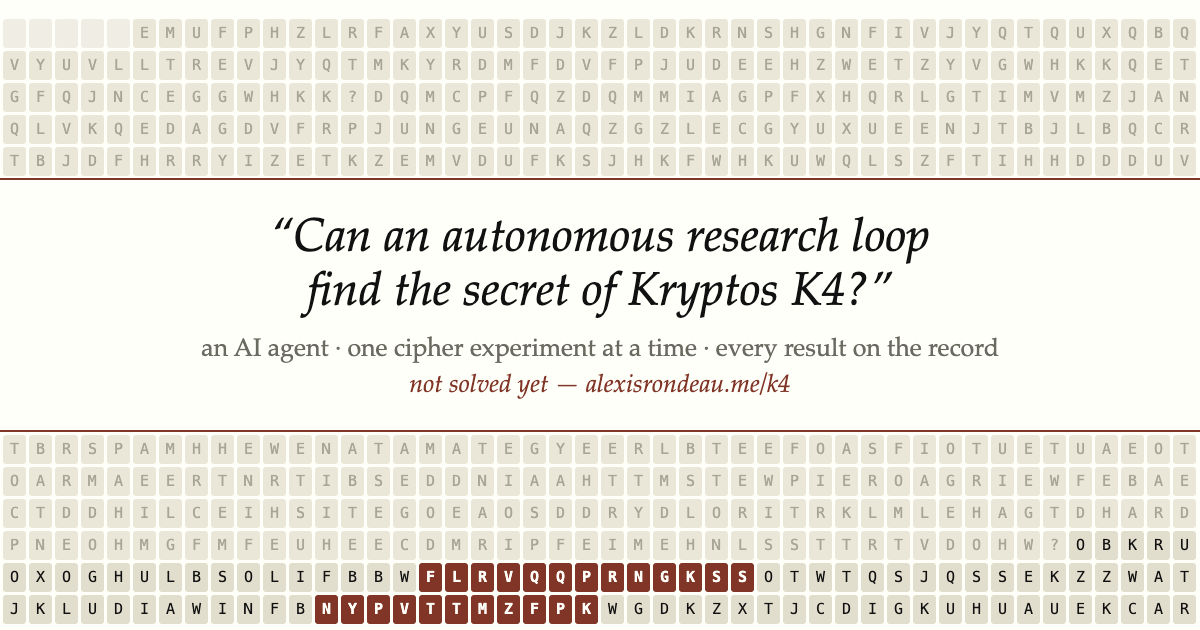
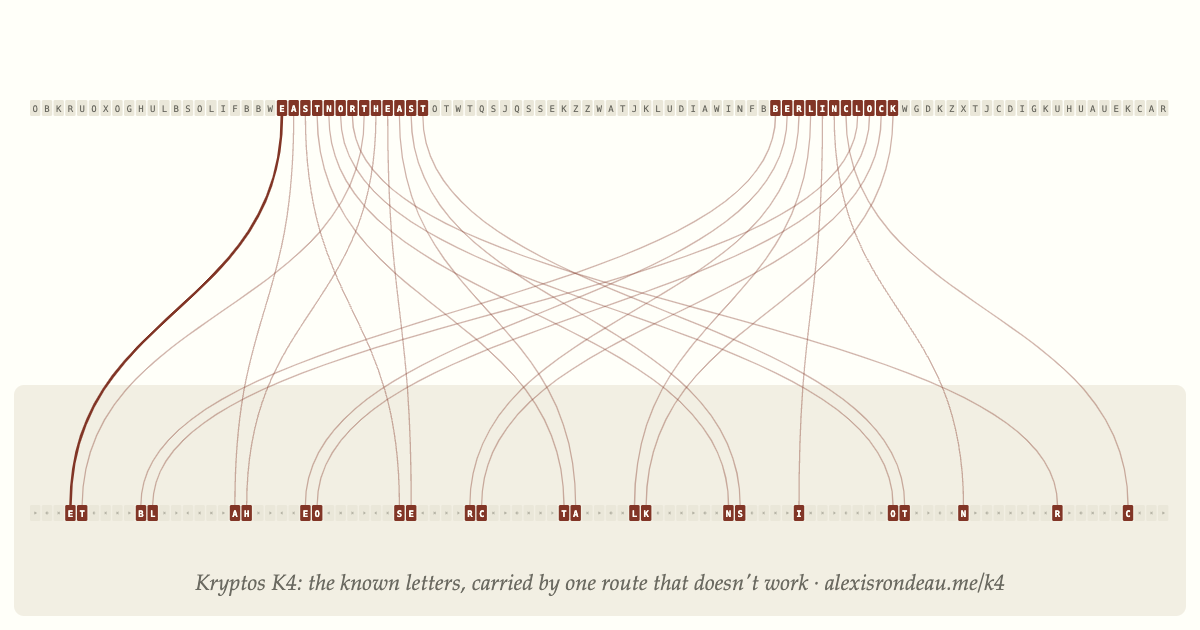
Share card: experiment 6's crib map, no title; tags cut to preview lengths (#70)

diff --git a/tools/share_card.py b/tools/share_card.py
@@ -1,14 +1,14 @@
-"""Draw the public site's social preview card, assets/share.png (1200 x 630), issue #69.
+"""Draw the public site's social preview card, assets/share.png (1200 x 630), issues #69 and #70.
 
-The carved text of the sculpture, K1 to K4 in order, as the site's letter cells, with K4 darker and
-its 24 known places in accent, under a paper band with the project's question. Rendered by headless
-Chrome so the house fonts (Palatino) are used. It carries no counts, so it does not go stale; the
-count of ways that don't work is in the page's description instead.
+The crib map of experiment 6, drawn wide: the 97 carved letters of K4 along the top with the 24
+known places in accent, the same 97 places along the bottom, and a curve carrying each known letter
+to where one route puts it (write the message in rows of 7, read down the columns). One of the ways
+that don't work. No title in the image: previews print the page's title under it. Rendered by
+headless Chrome so the house fonts are used.
 
     uv run python tools/share_card.py
 """
 
-import json
 import subprocess
 import sys
 import tempfile
@@ -20,42 +20,50 @@ from kryptos.facts import K4, KNOWN  # noqa: E402
 
 CHROME = "/Applications/Google Chrome.app/Contents/MacOS/Google Chrome"
 OUT = ROOT / "assets" / "share.png"
-W, H, COLS, CW, CH, GAP = 1200, 630, 46, 23, 29, 3
+W, H = 1200, 630
+X0, STEP, CW, CH = 30, 11.75, 10.4, 16          # 97 cells across the card
+TOP, BOT = 100, 505                              # the copper row and the reading row
+ACC, MUTED, CELL, PAPER = "#8c2f1f", "#6b6a60", "#ebe7d8", "#fffff8"
 
 
-def cells():
-    k = [json.loads((ROOT / "data" / f"k{i}.json").read_text()) for i in (1, 2, 3)]
-    before = k[0]["ciphertext"] + k[1]["ciphertext_as_carved"] + k[2]["ciphertext"]
-    rows = -(-(len(before) + len(K4)) // COLS)
-    pad = rows * COLS - len(before) - len(K4)
-    out = ['<span class="c t"></span>'] * pad
-    out += [f'<span class="c">{ch}</span>' for ch in before]
-    out += [f'<span class="c k{" n" if i + 1 in KNOWN else ""}">{ch}</span>' for i, ch in enumerate(K4)]
-    return rows, "".join(out)
+def land(p):
+    """Place p (1-based) after writing 97 letters in rows of 7 and reading the columns down."""
+    r, c = divmod(p - 1, 7)
+    return c * 14 + r + 1
+
+
+def cell(i, y, ch, known):
+    x = X0 + (i - 1) * STEP
+    fill, ink, weight = (ACC, PAPER, 700) if known else (CELL, MUTED, 400)
+    out = f'<rect x="{x:.1f}" y="{y}" width="{CW}" height="{CH}" rx="1.5" fill="{fill}"/>'
+    if ch:
+        out += (f'<text x="{x + CW / 2:.1f}" y="{y + 11.6}" font-family="SF Mono, Menlo, monospace" font-size="9" '
+                f'font-weight="{weight}" fill="{ink}" text-anchor="middle">{ch}</text>')
+    else:
+        out += f'<circle cx="{x + CW / 2:.1f}" cy="{y + CH / 2}" r="1.1" fill="#b9b6a6"/>'
+    return out
+
+
+def svg():
+    landed = {land(p): ch for p, ch in KNOWN.items()}
+    g = [f'<rect x="14" y="{BOT - 120}" width="{W - 28}" height="{H - BOT + 106}" rx="10" fill="#f3efe2"/>']
+    for p in sorted(KNOWN):                                        # curves first, under the cells
+        x1, x2 = X0 + (p - 1) * STEP + CW / 2, X0 + (land(p) - 1) * STEP + CW / 2
+        y1, y2, m = TOP + CH, BOT, (TOP + CH + BOT) / 2
+        bold = p == 22
+        g.append(f'<path d="M{x1:.1f},{y1} C{x1:.1f},{m:.1f} {x2:.1f},{m:.1f} {x2:.1f},{y2}" fill="none" stroke="{ACC}" '
+                 f'stroke-width="{2.6 if bold else 1.3}" stroke-opacity="{1 if bold else .38}"/>')
+    g += [cell(i, TOP, KNOWN.get(i, K4[i - 1]), i in KNOWN) for i in range(1, 98)]
+    g += [cell(i, BOT, landed.get(i, ""), i in landed) for i in range(1, 98)]
+    g.append(f'<text x="{W / 2}" y="{H - 40}" font-family="Palatino, Palatino Linotype, Book Antiqua, Georgia, serif" '
+             f'font-size="22" font-style="italic" fill="{MUTED}" text-anchor="middle">Kryptos K4: the known letters, carried '
+             f'by one route that doesn\'t work &#183; alexisrondeau.me/k4</text>')
+    return f'<svg xmlns="http://www.w3.org/2000/svg" width="{W}" height="{H}" viewBox="0 0 {W} {H}">{"".join(g)}</svg>'
 
 
 def html():
-    rows, grid = cells()
-    gw, gh = COLS * (CW + GAP) - GAP, rows * (CH + GAP) - GAP
-    return f"""<!doctype html><html><head><meta charset="utf-8"><style>
-:root{{--paper:#fffff8;--ink:#111111;--muted:#6b6a60;--accent:#8c2f1f;
---serif:"Palatino","Palatino Linotype","Book Antiqua",Georgia,serif;--mono:ui-monospace,"SF Mono",Menlo,monospace}}
-html,body{{margin:0;width:{W}px;height:{H}px;overflow:hidden;background:var(--paper)}}
-.g{{position:absolute;left:{(W - gw) // 2}px;top:{H - gh - 6}px;width:{gw}px;display:flex;flex-wrap:wrap;gap:{GAP}px}}
-.c{{width:{CW}px;height:{CH}px;border-radius:3px;background:#ebe7d8;color:#a9a594;font:15px/{CH}px var(--mono);text-align:center}}
-.c.t{{background:#f1eee3}}
-.c.k{{color:var(--ink);background:#e3decb}}
-.c.n{{background:var(--accent);color:var(--paper);font-weight:700}}
-.band{{position:absolute;left:0;right:0;top:178px;height:250px;background:var(--paper);border-top:2px solid var(--accent);
-border-bottom:2px solid var(--accent);display:flex;flex-direction:column;align-items:center;justify-content:center;text-align:center}}
-h1{{margin:0 40px;font:italic 400 47px/1.15 var(--serif);color:var(--ink)}}
-.s{{margin-top:16px;font:400 25px var(--serif);color:var(--muted)}}
-.a{{margin-top:8px;font:italic 400 25px var(--serif);color:var(--accent)}}
-</style></head><body><div class="g">{grid}</div><div class="band">
-<h1>&ldquo;Can an autonomous research loop<br>find the secret of Kryptos K4?&rdquo;</h1>
-<div class="s">an AI agent &middot; one cipher experiment at a time &middot; every result on the record</div>
-<div class="a">not solved yet &mdash; alexisrondeau.me/k4</div>
-</div></body></html>"""
+    return (f'<!doctype html><html><head><meta charset="utf-8"><style>html,body{{margin:0;width:{W}px;height:{H}px;'
+            f'overflow:hidden;background:{PAPER}}}svg{{display:block}}</style></head><body>{svg()}</body></html>')
 
 
 def main():

diff --git a/dashboard.py b/dashboard.py
@@ -742,11 +742,11 @@ def ways_that_dont_work():
 
 
 def social_tags():
-    """Open Graph and Twitter card tags for the public site, as the other autoresearch sites have them."""
-    title = "“Can an autonomous research loop find the secret of Kryptos K4?”"
-    desc = (f"Not solved yet, but {ways_that_dont_work()} ways that don't work, each on the record. An AI agent designs, "
-            "runs and records one cipher experiment at a time against Jim Sanborn's unsolved fourth message. Free software, GPLv3.")
-    img, alt = f"{SITE}/share.png", "The carved letters of Kryptos, K4's known places in red, under the question: can an autonomous research loop find the secret of Kryptos K4?"
+    """Open Graph and Twitter card tags for the public site, as the other autoresearch sites have them; the
+    title stays under 60 characters and the description under 125, so previews do not cut them."""
+    title = "Can an AI research loop find the secret of Kryptos K4?"
+    desc = f"Not solved yet, but {ways_that_dont_work()} ways that don't work, each on the record: an AI agent's cipher experiments on K4."
+    img, alt = f"{SITE}/share.png", "K4's 97 carved letters, the 24 known places in red, each carried by a curve to where one ruled-out route puts it."
     t = lambda k, v, a="property": f'<meta {a}="{k}" content="{esc(v)}">'
     return "".join([t("description", desc, "name"), t("og:type", "website"), t("og:site_name", "Kryptos K4 autoresearch"),
                     t("og:title", title), t("og:description", desc), t("og:url", f"{SITE}/"), t("og:image", img),
@@ -1174,7 +1174,7 @@ def overview():
             + f'<div class="explain-col"><h4><a href="/experiments">The experiments &rarr;</a></h4><p>Every experiment so far, {n} of them, placed by what it found against scrambled copies of the carved text, updated as each new one lands.</p></div>'
             + '<div class="explain-col"><h4><a href="/lineage">The lineage &rarr;</a></h4><p>How each experiment built on an earlier one, family by family, in the order they ran.</p></div>'
             + '</div>')
-    return page("Kryptos K4 autoresearch", body, "/")
+    return page("Kryptos K4: can an AI research loop find its secret?", body, "/")
 
 
 def experiments_table(rows):
